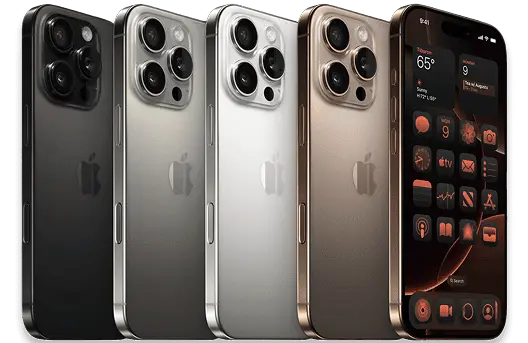
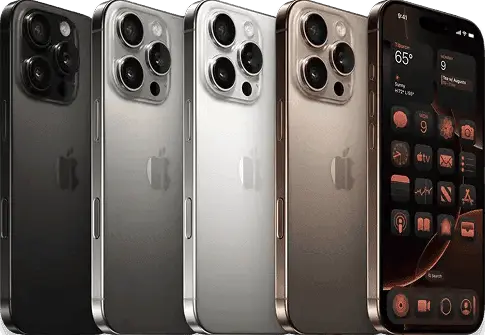
refactor MarketingCards block

diff --git a/src/constants/constants.ts b/src/constants/constants.ts
@@ -4,8 +4,8 @@ import ManyIphonesPNG from '@/assets/images/devices/many_iphones.png'
 import ManyIphonesWEBP from '@/assets/images/devices/many_iphones.webp'
 import PhoneBoxPNG from '@/assets/images/devices/phone_box.png'
 import PhoneBoxWEBP from '@/assets/images/devices/phone_box.webp'
-import IphonePNG from '@/assets/images/devices/iphone.png'
-import IphoneWEBP from '@/assets/images/devices/iphone.webp'
+import IphonesPNG from '@/assets/images/devices/2-iphones-reverse.png'
+import IphonesWEBP from '@/assets/images/devices/2-iphones-reverse.webp'
 import ActionCameraPNG from '@/assets/images/devices/action_camera.png'
 import ActionCameraWEBP from '@/assets/images/devices/action_camera.webp'
 import HeadphonesPNG from '@/assets/images/devices/headphones.png'
@@ -21,24 +21,11 @@ export const companyDescription: string[] = [
   'Open Box (новые товары в открытых или поврежденных коробках)',
 ]
 
-export enum ImagePositionType {
-  CENTER = 'center',
-  LEFT = 'left',
-  RIGHT = 'right'
-}
-
-export enum CardPositionType {
-  TOP = 'top',
-  BOTTOM = 'bottom',
-}
-
 interface IMarketingCards {
   id: number
   text: string
   imagePNG: StaticImageData
   imageWEBP: StaticImageData
-  imagePosition: ImagePositionType
-  cardPosition: CardPositionType
 }
 
 export const marketingCards: IMarketingCards[] = [
@@ -47,48 +34,36 @@ export const marketingCards: IMarketingCards[] = [
     text: 'Работаем с 2018 года',
     imagePNG: ManyIphonesPNG,
     imageWEBP: ManyIphonesWEBP,
-    imagePosition: ImagePositionType.CENTER,
-    cardPosition: CardPositionType.TOP,
   },
   {
     id: 2,
-    text: 'Прямые поставки с\nаукционов США/ЕС ОАЭ',
+    text: 'Доставка по всей\nБеларуси ',
     imagePNG: PhoneBoxPNG,
     imageWEBP: PhoneBoxWEBP,
-    imagePosition: ImagePositionType.RIGHT,
-    cardPosition: CardPositionType.TOP,
   },
   {
     id: 3,
-    text: 'Только оригинальная\nтехника',
-    imagePNG: IphonePNG,
-    imageWEBP: IphoneWEBP,
-    imagePosition: ImagePositionType.RIGHT,
-    cardPosition: CardPositionType.TOP,
+    text: 'Гарантия до 12 месяцев',
+    imagePNG: ActionCameraPNG,
+    imageWEBP: ActionCameraWEBP,
   },
   {
     id: 4,
-    text: 'Гарантия до 12 мес',
-    imagePNG: ActionCameraPNG,
-    imageWEBP: ActionCameraWEBP,
-    imagePosition: ImagePositionType.RIGHT,
-    cardPosition: CardPositionType.BOTTOM,
+    text: 'Только оригинальная\nтехника',
+    imagePNG: IphonesPNG,
+    imageWEBP: IphonesWEBP,
   },
   {
     id: 5,
     text: 'Самовывоз в\nцентре Минска',
     imagePNG: HeadphonesPNG,
     imageWEBP: HeadphonesWEBP,
-    imagePosition: ImagePositionType.RIGHT,
-    cardPosition: CardPositionType.BOTTOM,
   },
   {
     id: 6,
-    text: 'Доставка по всей\nБеларуси ',
+    text: 'Любые формы\nоплаты',
     imagePNG: NoteBookTransformerPNG,
     imageWEBP: NoteBookTransformerWEBP,
-    imagePosition: ImagePositionType.LEFT,
-    cardPosition: CardPositionType.BOTTOM,
   },
 ]
 

diff --git a/src/components/MarketingCards/MarketingCards.module.scss b/src/components/MarketingCards/MarketingCards.module.scss
@@ -7,9 +7,11 @@
 
   .marketingCardsContainer {
     width: 100%;
-    @include mixins.flex($gap: 10px);
+    @include mixins.flex($gap: 20px);
+    flex-wrap: wrap;
 
     .card {
+      height: 160px;
       flex: 0 0 auto;
       padding: 24px 20px;
       border-radius: 24px;
@@ -36,6 +38,8 @@
     }
 
     .card1 {
+      width: calc(60% - 10px);
+      padding-right: 200px;
       background: variables.$black;
 
       .cardText {
@@ -44,9 +48,9 @@
 
       .cardImage {
         height: 150%;
-        left: 50%;
         top: 50%;
-        transform: translate(-50%, -50%);
+        right: 0;
+        transform: translateY(-50%);
 
         img {
           width: auto;
@@ -55,13 +59,29 @@
     }
 
     .card2 {
+      width: calc(40% - 10px);
+      border: 1px solid variables.$light-border;
+
       .cardImage {
+        height: 70%;
         right: 0;
       }
     }
 
     .card3 {
-      flex: 1;
+      width: calc(45% - 10px);
+      border: 1px solid variables.$light-border;
+
+      .cardImage {
+        height: 150%;
+        right: -70px;
+        bottom: -70px;
+        transform: rotate(30deg);
+      }
+    }
+
+    .card4 {
+      width: calc(55% - 10px);
       background: variables.$black;
 
       .cardText {
@@ -73,16 +93,8 @@
       }
     }
 
-    .card4 {
-      .cardImage {
-        height: 150%;
-        right: -50px;
-        bottom: -55px;
-        transform: rotate(30deg);
-      }
-    }
-
     .card5 {
+      width: calc(60% - 10px);
       padding-right: 100px;
       background: variables.$black;
 
@@ -91,16 +103,18 @@
       }
 
       .cardImage {
-        right: 0;
+        height: calc(100% - 10px);
+        right: 20px;
       }
     }
 
     .card6 {
-      flex: 1;
-      padding-left: 132px;
+      width: calc(40% - 10px);
+      border: 1px solid variables.$light-border;
 
       .cardImage {
-        left: 10px;
+        height: calc(100% - 20px);
+        right: 20px;
       }
     }
   }

diff --git a/src/components/MarketingCards/MarketingCards.tsx b/src/components/MarketingCards/MarketingCards.tsx
@@ -4,7 +4,7 @@ import { classNames } from '@/helpers/classNames'
 import { Picture } from '@/components/shared/Picture/Picture'
 import { Text } from '@/components/shared/Text/Text'
 
-import { CardPositionType, marketingCards } from '@/constants/constants'
+import { marketingCards } from '@/constants/constants'
 
 import cls from './MarketingCards.module.scss'
 
@@ -13,24 +13,6 @@ export const MarketingCards = memo(() => {
     <div className={cls.marketingCardsWrapper}>
       <div className={cls.marketingCardsContainer}>
         {marketingCards
-          .filter(({ cardPosition }) => cardPosition === CardPositionType.TOP)
-          .map(card => (
-            <div key={card.id} className={classNames(cls.card, {}, [cls[`card${card.id}`]])}>
-              <Text className={cls.cardText}>{card.text}</Text>
-              <Picture
-                png={card.imagePNG}
-                webp={card.imageWEBP}
-                alt={'not important image'}
-                className={cls.cardImage}
-                isCover
-              />
-            </div>
-          ))
-        }
-      </div>
-      <div className={cls.marketingCardsContainer}>
-        {marketingCards
-          .filter(({ cardPosition }) => cardPosition === CardPositionType.BOTTOM)
           .map(card => (
             <div key={card.id} className={classNames(cls.card, {}, [cls[`card${card.id}`]])}>
               <Text className={cls.cardText}>{card.text}</Text>

diff --git a/src/styles/variables.scss b/src/styles/variables.scss
@@ -16,7 +16,8 @@ $white-color: #F5F5F5;
 $header-bg: #F5FF5B3;
 $blue: #017AF6;
 $dark-bg: #1C1C1C;
-$light-border: #ECECFF;
+$light-border: #ECECEC;
+$dark-border: #2B2B2B;
 
 // z-indexes:
 $header-z: 100;
